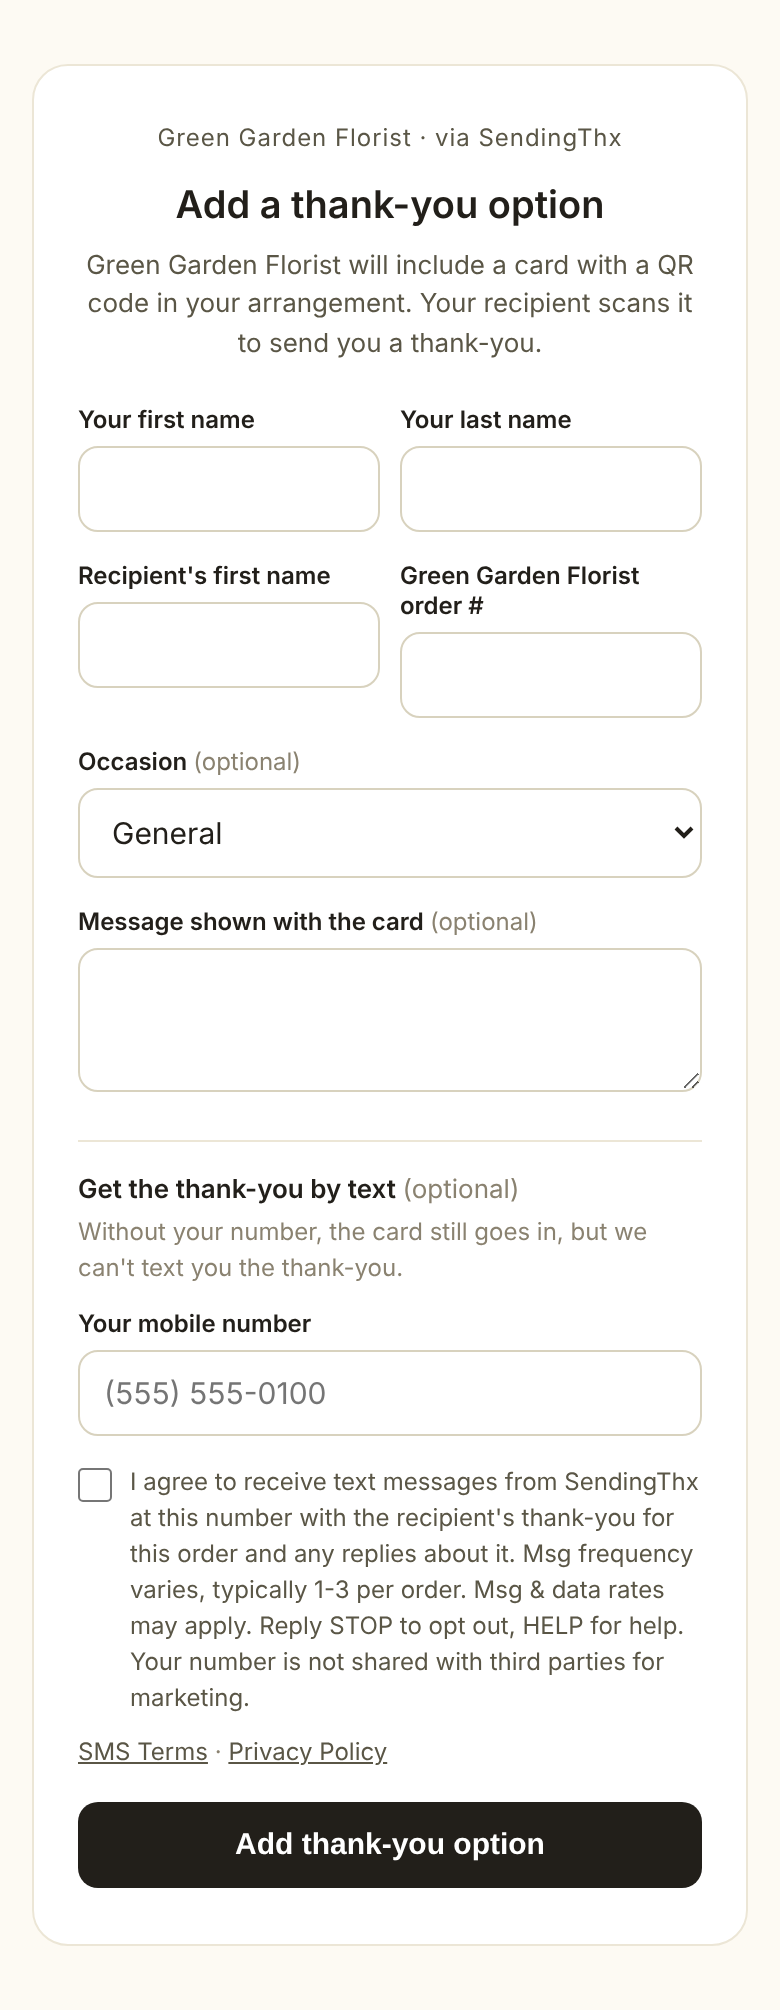
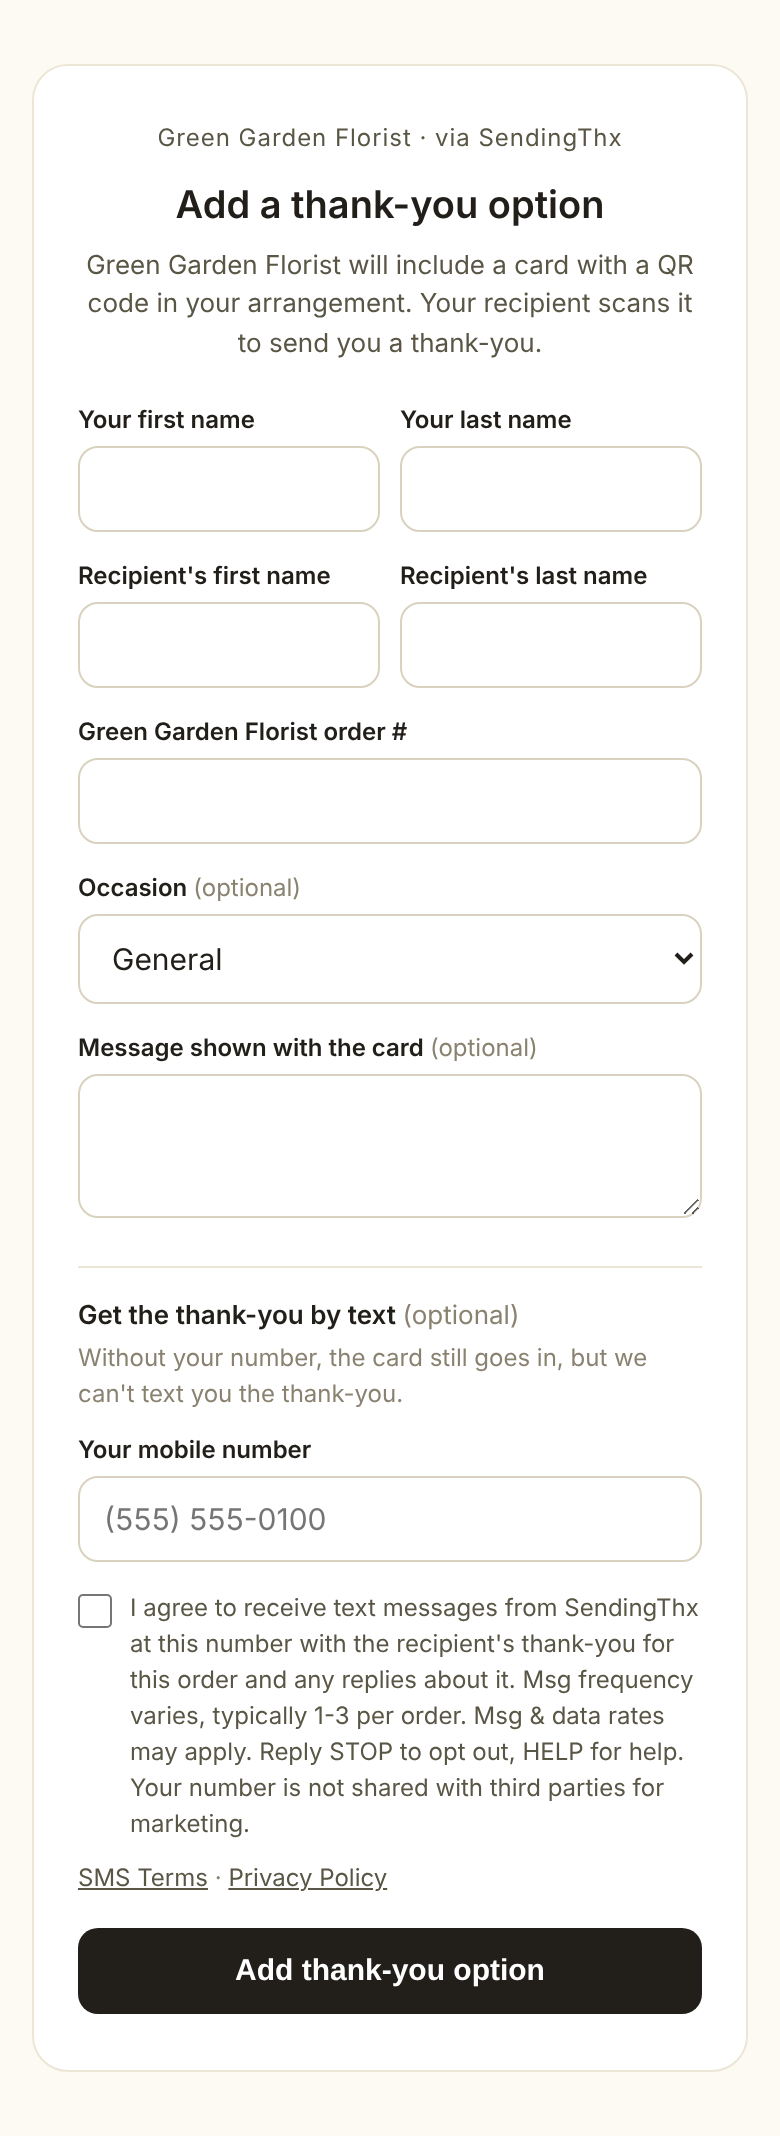
Collect recipient full name on florist page; re-capture opt-in screenshots
Claude-Session: https://claude.ai/code/session_01AZzx9dxbxm12URLo4FduzW

diff --git a/florist-qr.html b/florist-qr.html
@@ -110,6 +110,9 @@ tr.needs td{background:var(--gold-pale)}
         </div>
         <div class="row">
           <div class="field"><label for="rFirst">Recipient first name <span class="req">*</span></label><input id="rFirst" autocomplete="off"></div>
+          <div class="field"><label for="rLast">Recipient last name <span class="req">*</span></label><input id="rLast" autocomplete="off"></div>
+        </div>
+        <div class="row">
           <div class="field"><label for="occasion">Occasion</label>
             <select id="occasion">
               <option value="">General</option><option value="birthday">Birthday</option>
@@ -117,11 +120,9 @@ tr.needs td{background:var(--gold-pale)}
               <option value="get-well">Get well</option><option value="sympathy">Sympathy</option>
               <option value="thank-you">Thank you</option>
             </select></div>
-        </div>
-        <div class="row">
-          <div class="field"><label for="item">Arrangement</label><input id="item" placeholder="Spring tulip bouquet" autocomplete="off"></div>
           <div class="field"><label for="orderNo">Order #</label><input id="orderNo" autocomplete="off"></div>
         </div>
+        <div class="field"><label for="item">Arrangement</label><input id="item" placeholder="Spring tulip bouquet" autocomplete="off"></div>
         <div class="field"><label for="msg">Card message</label><textarea id="msg" maxlength="300" placeholder="Happy birthday, Mom! Love you."></textarea>
           <p class="hint">Shown to the recipient on the thank-you page.</p></div>
         <button class="btn btn-dark" id="create">Create card</button>
@@ -215,11 +216,11 @@ $('create').onclick = async () => {
   const err = $('createErr'); err.style.display = 'none';
   const body = {
     sender: { first_name: $('sFirst').value.trim(), last_name: $('sLast').value.trim() },
-    recipient: { first_name: $('rFirst').value.trim() },
+    recipient: { first_name: $('rFirst').value.trim(), last_name: $('rLast').value.trim() },
     occasion: $('occasion').value, item_description: $('item').value.trim(), card_message: $('msg').value.trim(), order_number: $('orderNo').value.trim(),
   };
   if (!body.sender.first_name || !body.sender.last_name) return showErr(err, "Enter the sender's first and last name.");
-  if (!body.recipient.first_name) return showErr(err, "Enter the recipient's first name.");
+  if (!body.recipient.first_name || !body.recipient.last_name) return showErr(err, "Enter the recipient's first and last name.");
   $('create').disabled = true; $('create').textContent = 'Creating...';
   try {
     const d = await api('POST', body);
@@ -231,7 +232,7 @@ $('create').onclick = async () => {
     $('sampleText').innerHTML = '<strong>Suggested text:</strong> Hi ' + esc(body.sender.first_name) +
       ', want ' + esc(body.recipient.first_name) + "'s thank-you texted to you when they get your flowers? Tap here: " + esc(d.sender_optin_url);
     $('resultEmpty').style.display = 'none'; $('resultBody').style.display = 'block';
-    ['sFirst','sLast','rFirst','item','msg','orderNo'].forEach(id => $(id).value = ''); $('occasion').value = '';
+    ['sFirst','sLast','rFirst','rLast','item','msg','orderNo'].forEach(id => $(id).value = ''); $('occasion').value = '';
     loadOrders();
   } catch (e) {
     if (e.status === 401) return showKeyPanel();
